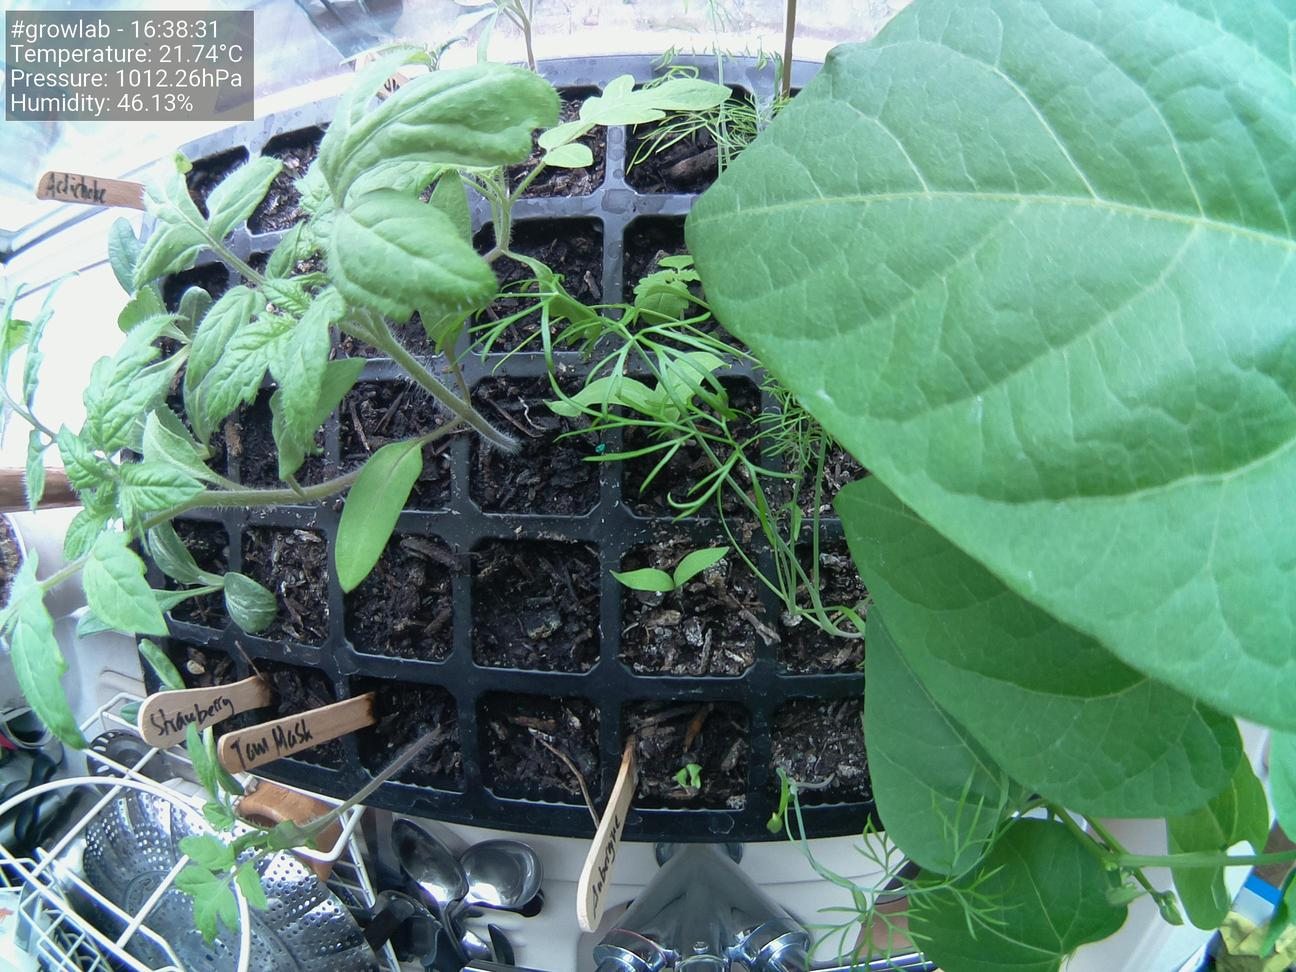
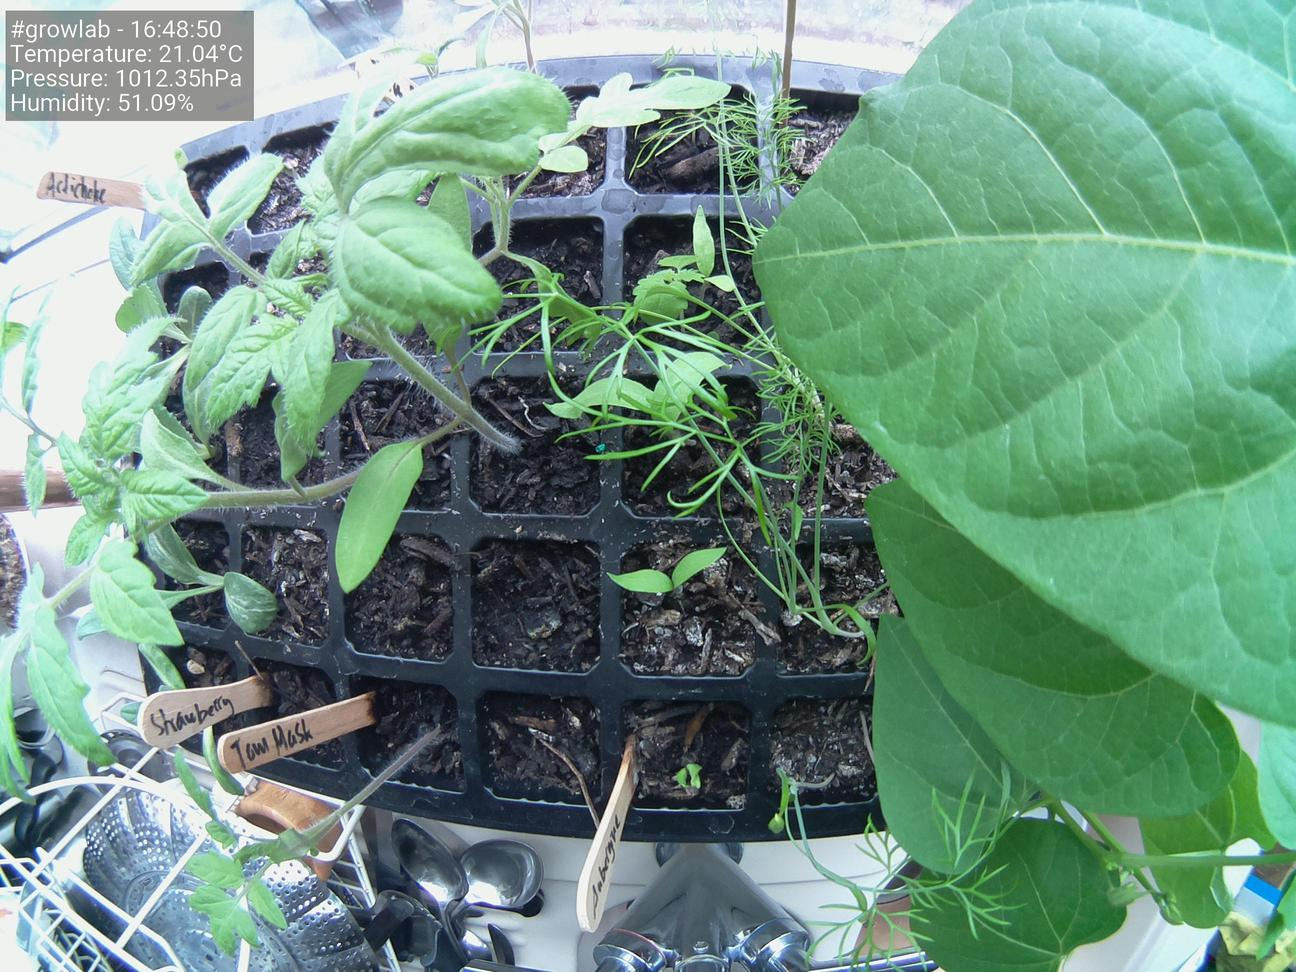
Update images at Thu 29 Apr 16:49:02 BST 2021

diff --git a/docs/index.html b/docs/index.html
@@ -38,19 +38,19 @@
                     <tbody>
                         <tr>
                             <td>Time</td>
-                            <td>16:38:31</td>
+                            <td>16:48:50</td>
                         </tr>
                         <tr>
                             <td>Temperature</td>
-                            <td>21.74°C</td>
+                            <td>21.04°C</td>
                         </tr>
                         <tr>
                             <td>Humidity</td>
-                            <td>46.13%</td>
+                            <td>51.09%</td>
                         </tr>
                         <tr>
                             <td>Pressure</td>
-                            <td>1012.26hPa</td>
+                            <td>1012.35hPa</td>
                         </tr>
                     </tbody>
                 </table>
@@ -58,7 +58,7 @@
 
                 <h5>Latest image</h5>
 		<div style="width: 85%;">
-	                <img class="figure-img img-fluid rounded" src="./preview.jpg?uid=1619710722.1324725">
+	                <img class="figure-img img-fluid rounded" src="./preview.jpg?uid=1619711341.6240728">
 		</div>
             </div>
         </div>
